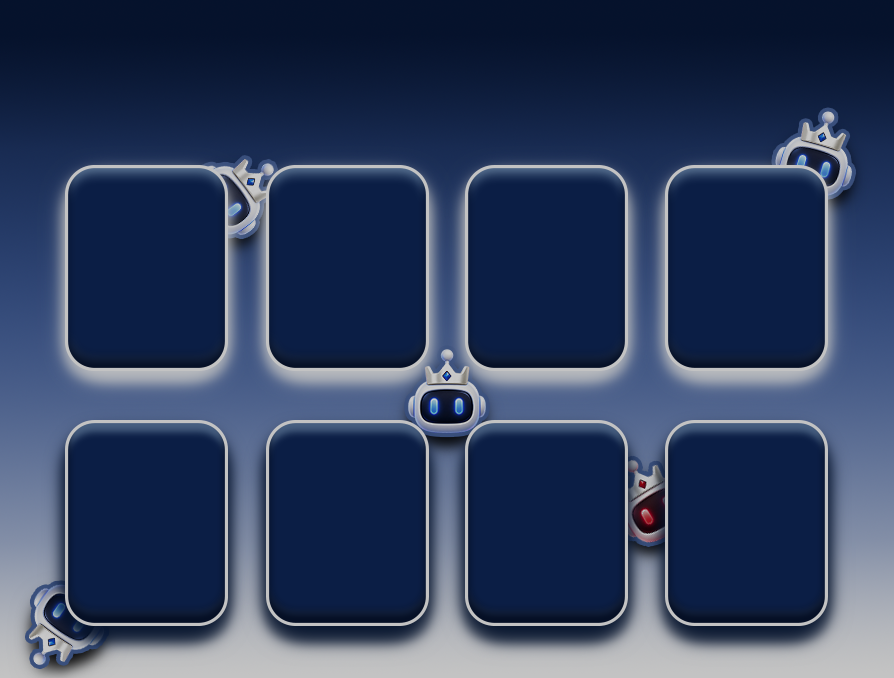
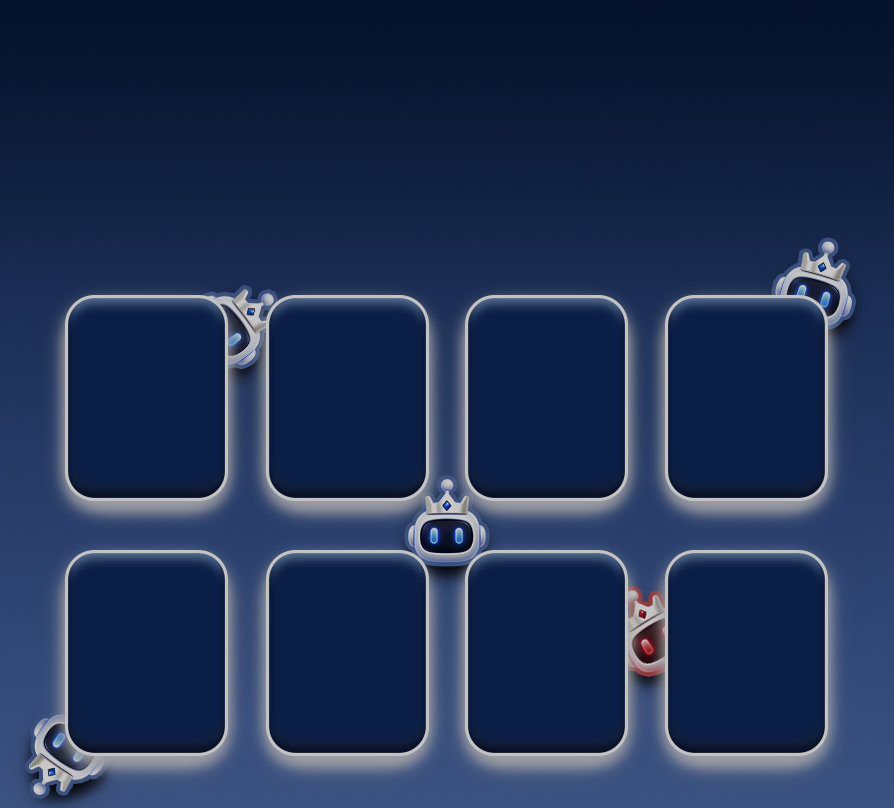
Improve weekly digest deck collage

diff --git a/bot/services/deck_collage.py b/bot/services/deck_collage.py
@@ -22,7 +22,7 @@ _ASSETS = Path(__file__).resolve().parents[1] / "assets"
 _BG_PATH = _ASSETS / "digest_bg.png"
 _TITLE_FONT_PATH = _ASSETS / "Supercell-Magic.ttf"
 
-# Clean digest_bg.png (894×678): gold frame OUTERS are 165×208.
+# Clean digest_bg.png (894×808): gold frame OUTERS are 165×208.
 # Inner content rects — cards are contained+centered here (no stretch, no overflow).
 _SLOT_INNERS: list[tuple[int, int, int, int]] = [
     (68, 168, 159, 202),
@@ -50,6 +50,8 @@ _DROP_ORIGINS: list[tuple[int, int]] = [
 _TITLE = "ЛУЧШАЯ КОЛОДА НЕДЕЛИ"
 _TITLE_FILL = (255, 255, 255, 255)
 _TITLE_OUTLINE = (18, 28, 70, 255)
+_STAT_GOLD = (255, 224, 138, 255)
+_STAT_ICE = (211, 228, 255, 255)
 _ELIXIR_PINK = (224, 64, 251)
 _EVO_BADGE = (232, 121, 249, 255)
 _EVO_BADGE_DARK = (126, 34, 206, 255)
@@ -268,10 +270,17 @@ def _draw_elixir_drop_at(canvas: Image.Image, origin: tuple[int, int], elixir: i
     canvas.alpha_composite(layer, dest=(ox - pad, oy - pad))
 
 
-def _draw_title(canvas: Image.Image) -> None:
-    """Draw title with uniform letter height (Supercell Magic Cyrillic is uneven)."""
-    text = _TITLE.upper()
-    font = _title_font(46)
+def _draw_styled_centered_text(
+    canvas: Image.Image,
+    text: str,
+    *,
+    font_size: int,
+    center_y: int,
+    fill: tuple[int, int, int, int],
+    outline_radius: int,
+) -> None:
+    """Centered Supercell-style text with normalized Cyrillic cap height."""
+    font = _title_font(font_size)
     # Reference cap-height from a "clean" letter (А) — scale outliers like Д to match
     ref = font.getbbox("А")
     target_h = max(1, ref[3] - ref[1])
@@ -299,7 +308,7 @@ def _draw_title(canvas: Image.Image) -> None:
     total_w = sum(widths) + gap * max(0, len(widths) - 1)
     total_h = target_h
     # Outline padding
-    pad = 4
+    pad = outline_radius + 1
     layer = Image.new("RGBA", (total_w + pad * 2, total_h + pad * 2), (0, 0, 0, 0))
 
     def _blit_colored(color: tuple[int, int, int, int], dx: int, dy: int) -> None:
@@ -313,16 +322,67 @@ def _draw_title(canvas: Image.Image) -> None:
             layer.alpha_composite(tinted, dest=(x, pad + dy))
             x += w + gap
 
-    for ox in range(-3, 4):
-        for oy in range(-3, 4):
-            if ox * ox + oy * oy <= 10:
+    for ox in range(-outline_radius, outline_radius + 1):
+        for oy in range(-outline_radius, outline_radius + 1):
+            if ox * ox + oy * oy <= outline_radius * outline_radius:
                 _blit_colored(_TITLE_OUTLINE, ox, oy)
-    _blit_colored(_TITLE_FILL, 0, 0)
+    _blit_colored(fill, 0, 0)
 
     cx = canvas.width / 2
-    cy = 78
-    dest = (int(round(cx - layer.width / 2)), int(round(cy - layer.height / 2)))
+    dest = (int(round(cx - layer.width / 2)), int(round(center_y - layer.height / 2)))
     canvas.alpha_composite(layer, dest=dest)
+
+
+def _draw_title(canvas: Image.Image) -> None:
+    """Draw title with uniform letter height (Supercell Magic Cyrillic is uneven)."""
+    _draw_styled_centered_text(
+        canvas,
+        _TITLE,
+        font_size=46,
+        center_y=78,
+        fill=_TITLE_FILL,
+        outline_radius=3,
+    )
+
+
+def format_best_deck_collage_stats(
+    winrate: float,
+    matches: int,
+    usage_percent: float,
+) -> tuple[str, str]:
+    """Compact deck facts rendered on the collage, not repeated in the Telegram caption."""
+    winrate_label = f"{float(winrate):g}".replace(".", ",")
+    return (
+        f"ВИНРЕЙТ {winrate_label}% · {max(0, int(matches))} МАТЧЕЙ",
+        f"ИСПОЛЬЗОВАНИЕ {max(0, int(usage_percent))}%",
+    )
+
+
+def _draw_best_deck_stats(
+    canvas: Image.Image,
+    *,
+    winrate: float,
+    matches: int,
+    usage_percent: float,
+) -> None:
+    """Place the best-deck facts in the header gap above the card grid."""
+    winrate_line, usage_line = format_best_deck_collage_stats(winrate, matches, usage_percent)
+    _draw_styled_centered_text(
+        canvas,
+        winrate_line,
+        font_size=24,
+        center_y=119,
+        fill=_STAT_GOLD,
+        outline_radius=2,
+    )
+    _draw_styled_centered_text(
+        canvas,
+        usage_line,
+        font_size=22,
+        center_y=143,
+        fill=_STAT_ICE,
+        outline_radius=2,
+    )
 
 
 def _load_background() -> Image.Image:
@@ -405,8 +465,14 @@ def _draw_hero_card_frame(canvas: Image.Image, slot: tuple[int, int, int, int]) 
     canvas.alpha_composite(frame_layer)
 
 
-async def render_deck_collage(cards: list[dict]) -> bytes | None:
-    """Build PNG: clean BG → centered card icons → evo/hero badges → elixir → title."""
+async def render_deck_collage(
+    cards: list[dict],
+    *,
+    winrate: float | None = None,
+    matches: int | None = None,
+    usage_percent: float | None = None,
+) -> bytes | None:
+    """Build PNG: background → title/statistics → cards → evo/hero badges → elixir."""
     if not cards:
         return None
 
@@ -416,6 +482,13 @@ async def render_deck_collage(cards: list[dict]) -> bytes | None:
 
     canvas = _load_background()
     _draw_title(canvas)
+    if winrate is not None and matches is not None and usage_percent is not None:
+        _draw_best_deck_stats(
+            canvas,
+            winrate=winrate,
+            matches=matches,
+            usage_percent=usage_percent,
+        )
 
     async with aiohttp.ClientSession() as session:
         arts: list[Image.Image] = []

diff --git a/bot/services/weekly_digest.py b/bot/services/weekly_digest.py
@@ -522,21 +522,6 @@ def format_digest_caption(stats: WeekStats, player_name: str | None = None) -> s
             f"📅 Лучший день: {stats.best_day_name} — {stats.best_day_wins} побед"
         )
 
-    if stats.best_deck:
-        d = stats.best_deck
-        lines.extend(
-            [
-                "",
-                "🥇 Лучшая колода",
-                (
-                    f"📈 Винрейт: {_format_percent(d.get('winrate', 0))}% "
-                    f"· {d.get('total', 0)} матчей"
-                ),
-            ]
-        )
-        if stats.best_deck_share:
-            lines.append(f"🎯 Использование: {int(stats.best_deck_share)}%")
-
     lines.extend(["", f"💬 {stats.form_note}"])
     # player_name reserved for future personalization; keep signature stable
     _ = player_name
@@ -678,7 +663,12 @@ async def send_digest_to_user(
                 or_merge_modes_onto(profile, [profile, cards], clamp=False)
             )
         try:
-            photo_bytes = await render_deck_collage(cards)
+            photo_bytes = await render_deck_collage(
+                cards,
+                winrate=float(stats.best_deck.get("winrate") or 0),
+                matches=int(stats.best_deck.get("total") or 0),
+                usage_percent=stats.best_deck_share,
+            )
         except Exception:
             logger.exception("Deck collage failed user_id=%s", user.id)
 

diff --git a/tests/test_weekly_digest_schedule.py b/tests/test_weekly_digest_schedule.py
@@ -13,6 +13,7 @@ from bot.services.weekly_digest import (
     week_bounds,
     WeekStats,
 )
+from bot.services.deck_collage import format_best_deck_collage_stats
 
 MSK = timezone(timedelta(hours=3))
 
@@ -29,7 +30,7 @@ def test_digest_period_keeps_both_years_when_range_crosses_year():
     assert _format_period(date(2025, 12, 29), date(2026, 1, 4)) == "29 дек 2025 — 4 янв 2026"
 
 
-def test_digest_caption_uses_compact_mobile_layout():
+def test_digest_caption_keeps_best_deck_statistics_on_the_collage():
     stats = WeekStats(
         week_key="2026-W36",
         start=date(2026, 8, 31),
@@ -61,12 +62,15 @@ def test_digest_caption_uses_compact_mobile_layout():
             "🔥 Серия побед: 7",
             "📅 Лучший день: суббота — 9 побед",
             "",
-            "🥇 Лучшая колода",
-            "📈 Винрейт: 61,9% · 42 матчей",
-            "🎯 Использование: 67%",
-            "",
             "💬 Винрейт стабильный — продолжай в том же духе.",
         ]
+    )
+
+
+def test_best_deck_collage_stats_are_compact_and_use_russian_decimal_separator():
+    assert format_best_deck_collage_stats(61.9, 42, 67) == (
+        "ВИНРЕЙТ 61,9% · 42 МАТЧЕЙ",
+        "ИСПОЛЬЗОВАНИЕ 67%",
     )
 
 
